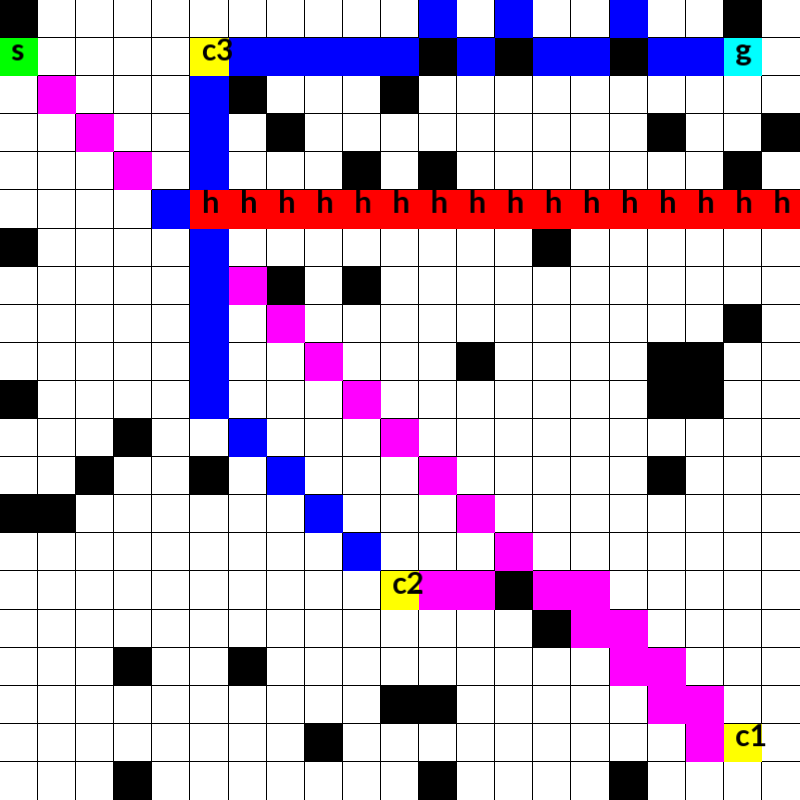
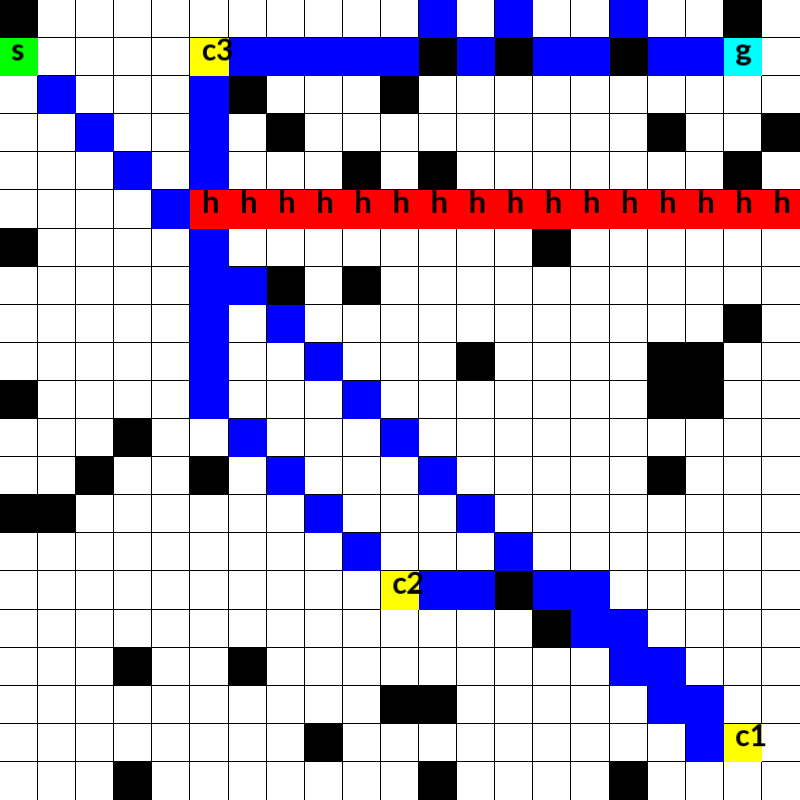
Simple trick that allows to pick the correct dfa trace immediately for all my examples

Changed region(s): [[0.2812, 0.3125, 0.9062, 0.9688], [0.0312, 0.0938, 0.1875, 0.25]]

diff --git a/LTLStuff/DFAManager.cpp b/LTLStuff/DFAManager.cpp
@@ -5,8 +5,9 @@
 
 using namespace std;
 
-DFAManager::DFAManager(shared_ptr<spot::bdd_dict> bddDict, bool feedback)
-    : bdd_dict_(bddDict), feedback_(feedback) {}
+DFAManager::DFAManager(shared_ptr<spot::bdd_dict> bddDict, set<bdd, BddComparator> equivalence_regions, bool feedback)
+    : bdd_dict_(bddDict), equivalence_regions_(equivalence_regions),
+    feedback_(feedback) {}
 
 void DFAManager::construct_dfa(const LTLFormula& formula) {
     spot::formula spot_formula = formula.get_spot_formula();
@@ -163,7 +164,7 @@ shared_ptr<DFANode> DFAManager::generate_dfa_path() {
         for (auto& edge: get_transitions(current_dfa_state)) {
             size_t next_dfa_state = edge.dst;
 
-            if (next_dfa_state != current_dfa_state) { 
+            if (next_dfa_state != current_dfa_state && is_transition_feasible(edge.cond)) { 
                 // Calculate the cost for this transition
                 int edge_cost = dfa_transition_cost(current_dfa_state, next_dfa_state);
                 int total_cost = currentNodePair.first + edge_cost;
@@ -251,6 +252,16 @@ bool DFAManager::is_transition_valid(const bdd& edge_cond, const bdd& next_state
     // check if "next_state_bdd => edge_cond"
     bdd implication = bdd_apply(bdd_not(next_state_bdd), edge_cond, bddop_or);
     return implication == bddtrue;
+}
+
+bool DFAManager::is_transition_feasible(const bdd& edge_cond) {
+    for (const auto& region_bdd : equivalence_regions_) {
+        if (is_transition_valid(edge_cond, region_bdd)) {
+            // At least one equivalence region satisfies the transition.
+            return true;
+        }
+    }
+    return false;
 }
 
 spot::twa_graph::edge_storage_t* DFAManager::find_transition(const bdd& next_state_bdd, size_t curr_dfa_state) {

diff --git a/LTLStuff/DFAManager.h b/LTLStuff/DFAManager.h
@@ -19,17 +19,18 @@
 
 #include "LTLFormula.h"
 #include "DFANode.h"
+#include "DomainManager.h"
 
 class DFAManager {
 public:
     // Constructor
-    DFAManager(std::shared_ptr<spot::bdd_dict> bddDict, bool feedback);
+    DFAManager(shared_ptr<spot::bdd_dict> bddDict, set<bdd, BddComparator> equivalence_regions, bool feedback);
 
     // Convert LTL formula to DFA
     void construct_dfa(const LTLFormula& formula);
 
     // Save DFA to DOT and PNG files
-    void save_dfa(const std::string& filename);
+    void save_dfa(const string& filename);
 
     void print_dfa();
 
@@ -50,16 +51,19 @@ public:
 
     void initialize_node_priority_queue();
 
+    bool is_transition_feasible(const bdd& edge_cond);
+
     bool is_transition_valid(const bdd& edge_cond, const bdd& next_state_bdd);
     spot::twa_graph::edge_storage_t* find_transition(const bdd& next_state_bdd, size_t curr_dfa_state);
 
 private:
 
     spot::bdd_dict_ptr bdd_dict_;
+    set<bdd, BddComparator> equivalence_regions_;
     bool feedback_;
 
     // DFA corresponding to LTL formula.
-    std::shared_ptr<spot::twa_graph> dfa_;
+    shared_ptr<spot::twa_graph> dfa_;
 
     // A priority queue with a pair of (cost, DFANode)
     NodeHeap nodePriorityQueue_;

diff --git a/LTLStuff/TEGProblem.cpp b/LTLStuff/TEGProblem.cpp
@@ -14,8 +14,8 @@ TEGProblem::TEGProblem(const string formula_str,
     : domain_(domain), start_domain_state_(start_domain_state), problem_id_(problem_id), on_the_fly_(on_the_fly), cache_(cache),
     use_landmarks_(use_landmarks),
     bdd_dict_(make_shared<spot::bdd_dict>()),
-    dfa_manager_(make_shared<DFAManager>(bdd_dict_, feedback)),
     domain_manager_(make_shared<DomainManager>(bdd_dict_, domain_, ap_mapping)),
+    dfa_manager_(make_shared<DFAManager>(bdd_dict_, domain_manager_->get_all_equivalence_regions(), feedback)),
     product_manager_(make_shared<ProductManager>(domain_manager_, dfa_manager_))
     { 
 
@@ -172,8 +172,7 @@ void TEGProblem::realize_dfa_trace(shared_ptr<DFANode>& endTraceNode) {
     // (one queue for each DFA state in the trace)
     map<size_t, priority_queue<pair<int, ProductState>, vector<pair<int, ProductState>>, greater<pair<int, ProductState>>>> regionQueues;
 
-    int curr_state_heuristic;
-    int next_state_heuristic;
+    int curr_state_heuristic = 0;
 
     // We need this for computing heuristics.
     map<size_t, set<GridState>> landmarks;

diff --git a/LTLStuff/TEGProblem.h b/LTLStuff/TEGProblem.h
@@ -65,8 +65,8 @@ private:
     // DFA corresponding to LTL formula.
     spot::bdd_dict_ptr bdd_dict_;
 
-    std::shared_ptr<DFAManager> dfa_manager_;
     std::shared_ptr<DomainManager> domain_manager_;
+    std::shared_ptr<DFAManager> dfa_manager_;
     std::shared_ptr<ProductManager> product_manager_;
 
     // Solution path (if found).
